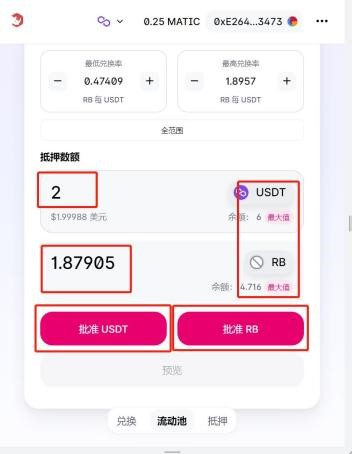
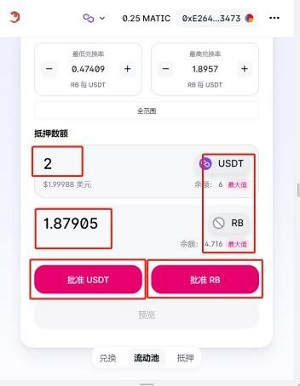
update

diff --git a/docs/source/game_introduction.rst b/docs/source/game_introduction.rst
@@ -2,7 +2,7 @@ RunBit游戏操作流程介绍
 ======================
 进入游戏
 ----------
-打开imtoken或者TokenPocket等钱包，选择Matic（Polygon）链，在DAPP浏览器栏输入游戏地址https://game.runbit.org，点击打开。
+打开 :guilabel:`imtoken` 或者 :guilabel:`TokenPocket` 等钱包，选择Matic（Polygon）链，在DAPP浏览器栏输入游戏地址https://game.runbit.org，点击打开。
 
 .. _fig_0101:
 .. figure:: img/1.jpg
@@ -10,7 +10,7 @@ RunBit游戏操作流程介绍
  
 激活游戏
 ----------
-进入游戏后，会弹出“请输入激活码”提示，填入上级推荐人地址，确定激活，激活后进入游戏首页。
+进入游戏后，会弹出 :guilabel:`请输入激活码` 提示，填入上级推荐人地址，确定激活，激活后进入游戏首页。
 
 .. _fig_0201:
 .. figure:: img/2-1.jpg
@@ -33,7 +33,7 @@ https://game.runbit.org/appdownload/runbit.apk
 
 购买装备和属性卡
 -----------------
-点击商店，选择要购买的装备或者属性卡，确认购买。首次购买会弹出授权弹窗，点击授权，授权会消耗少量MATIC作为GAS费。再次点击进行购买，支付相应的RB购买。要保证钱包里有足够的RB和MATIC。购买的装备和属性卡可在背包中查看。
+点击商店，选择要购买的装备或者属性卡，确认购买。首次购买会弹出授权弹窗，点击 :guilabel:`授权`，授权会消耗少量MATIC作为GAS费。再次点击进行购买，支付相应的RB购买。要保证钱包里有足够的RB和MATIC。购买的装备和属性卡可在背包中查看。
     
 
 .. figure:: img/4-1.jpg
@@ -46,7 +46,7 @@ https://game.runbit.org/appdownload/runbit.apk
 
 给装备添加属性卡
 -----------------
-打开背包，选择要添加属性卡的装备，比如鞋子，上衣或裤子。打开选择的装备，点击“+”，选择要添加的属性卡，确认添加。
+打开背包，选择要添加属性卡的装备，比如鞋子，上衣或裤子。打开选择的装备，点击 :guilabel:`+`，选择要添加的属性卡，确认添加。
    
 
 .. figure:: img/5-1.jpg 
@@ -55,8 +55,10 @@ https://game.runbit.org/appdownload/runbit.apk
 
 选择赛道，添加装备
 ------------------
-1. 点击赛道，选择好赛道后进行确定。注意：选择好赛道后需要，添加对应的装备，否则会减少收益。
-  
+1. 点击赛道，选择好赛道后进行确定。
+
+.. 注意::
+    选择好赛道后需要添加对应的装备，否则会减少收益。
 
 .. figure:: img/6-1.jpg 
 .. figure:: img/6-2.jpg 
@@ -66,10 +68,10 @@ https://game.runbit.org/appdownload/runbit.apk
 
 
 
-2. 添加和卸下装备
+1. 添加和卸下装备
 
-+ 添加装备：选择好赛道后，要对应赛道添加装备，比如石子路必须穿鞋子。点击人物上的对应“+”，上中下分别为上衣、裤子、鞋子。点击后选择对应的装备进行添加。添加完成后如图所示。
-+ 卸下装备：点击要卸下装备的部位，点击打开后，点击“卸下”，授权进行卸下装备。卸下后将不再获得对应的收益。
++ 添加装备：选择好赛道后，要对应赛道添加装备，比如石子路必须穿鞋子。点击人物上的对应 :guilabel:`+`，上中下分别为上衣、裤子、鞋子。点击后选择对应的装备进行添加。添加完成后如图所示。
++ 卸下装备：点击要卸下装备的部位，点击打开后，点击 :guilabel:`卸下`，授权进行卸下装备。卸下后将不再获得对应的收益。
  
 .. figure:: img/6-3.jpg 
 .. figure:: img/6-4.jpg 

diff --git a/docs/source/UPswap.rst b/docs/source/UPswap.rst
@@ -1,0 +1,62 @@
+UPswap操作流程介绍
+=======================
+
+进入交易所
+--------------
+
+在钱包（imtoken、TP等）中输入交易所地址https://www.upswap.org，进入交易所。
+
+兑换
+-------------
+进入后选择相应的交易对，输入兑换数量，然后进行授权，点击兑换。
+如果找不到相应的币，则点击 :guilabel:`选择代币`，输入合约地址或者名称搜索要兑换的币。
+
+.. figure:: img/upswap-2-1.jpg 
+.. figure:: img/upswap-2-2.jpg 
+.. figure:: img/upswap-2-3.jpg 
+.. figure:: img/upswap-2-4.jpg 
+.. figure:: img/upswap-2-5.jpg   
+  
+
+添加流动性
+---------------
+
+点击 :guilabel:`流动性`，点击 :guilabel:`+新仓位`，添加流动性。
+ 
+.. figure:: img/upswap-3-1.jpg  
+
+选择要添加的交易对，选择USDT和RB币对。选择好后如下图所示。
+设置兑换率范围，保证“当前兑换率”界于“最低兑换率”和“最高兑换率”之间。
+
+.. figure:: img/upswap-3-2.jpg 
+.. figure:: img/upswap-3-3.jpg 
+.. figure:: img/upswap-3-4.jpg  
+   
+输入要抵押的数量（输入USDT或RB均可），输入任何一个币的数量会自动填补另一个币所需数量。然后点击 :guilabel:`批准USDT` 和  :guilabel:`批准RB` 进行授权，授权完成后点击 :guilabel:`预览` ，确认无误后进行添加。
+   
+.. figure:: img/upswap-3-5.jpg 
+.. figure:: img/upswap-3-6.jpg 
+.. figure:: img/upswap-3-7.jpg  
+
+添加完成后会在下图展示添加的流动性。
+ 
+.. figure:: img/upswap-3-8.jpg  
+
+抵押
+--------------
+打开抵押页面，选择要抵押的天数，点击进去。选择要抵押的流动性，可抵押的流动性会标示 :guilabel:`可抵押`，点击进行抵押。抵押完成后可查看抵押的流动性。点击 :guilabel:`领取` 可领取每天获得的收益。
+
+.. figure:: img/upswap-4-1.jpg 
+.. figure:: img/upswap-4-2.jpg 
+.. figure:: img/upswap-4-3.jpg 
+
+
+
+
+
+
+
+
+
+
+

diff --git a/docs/source/game_rules.rst b/docs/source/game_rules.rst
@@ -103,5 +103,5 @@ Runbit DAO游戏规则
 
 其他
 ------
-游戏内，绑定属性卡，卸载属性卡，绑定装备，卸载装备准备合成，授权NFT、授权RB等操作会消耗少量MATIC作为GAS费。
+游戏内，绑定属性卡，卸载属性卡，绑定装备，卸载装备、装备合成，授权NFT、授权RB等操作会消耗少量MATIC作为GAS费。
 

diff --git a/docs/source/index.rst b/docs/source/index.rst
@@ -9,7 +9,7 @@ RunBit
 .. toctree::
    :maxdepth: 2
 
-   Runbit DAO经济模型
-   Runbit DAO游戏规则
-   RunBit游戏操作流程介绍
-   UPswap操作流程介绍
+   economic_model
+   game_rules
+   game_introduction
+   UPswap
